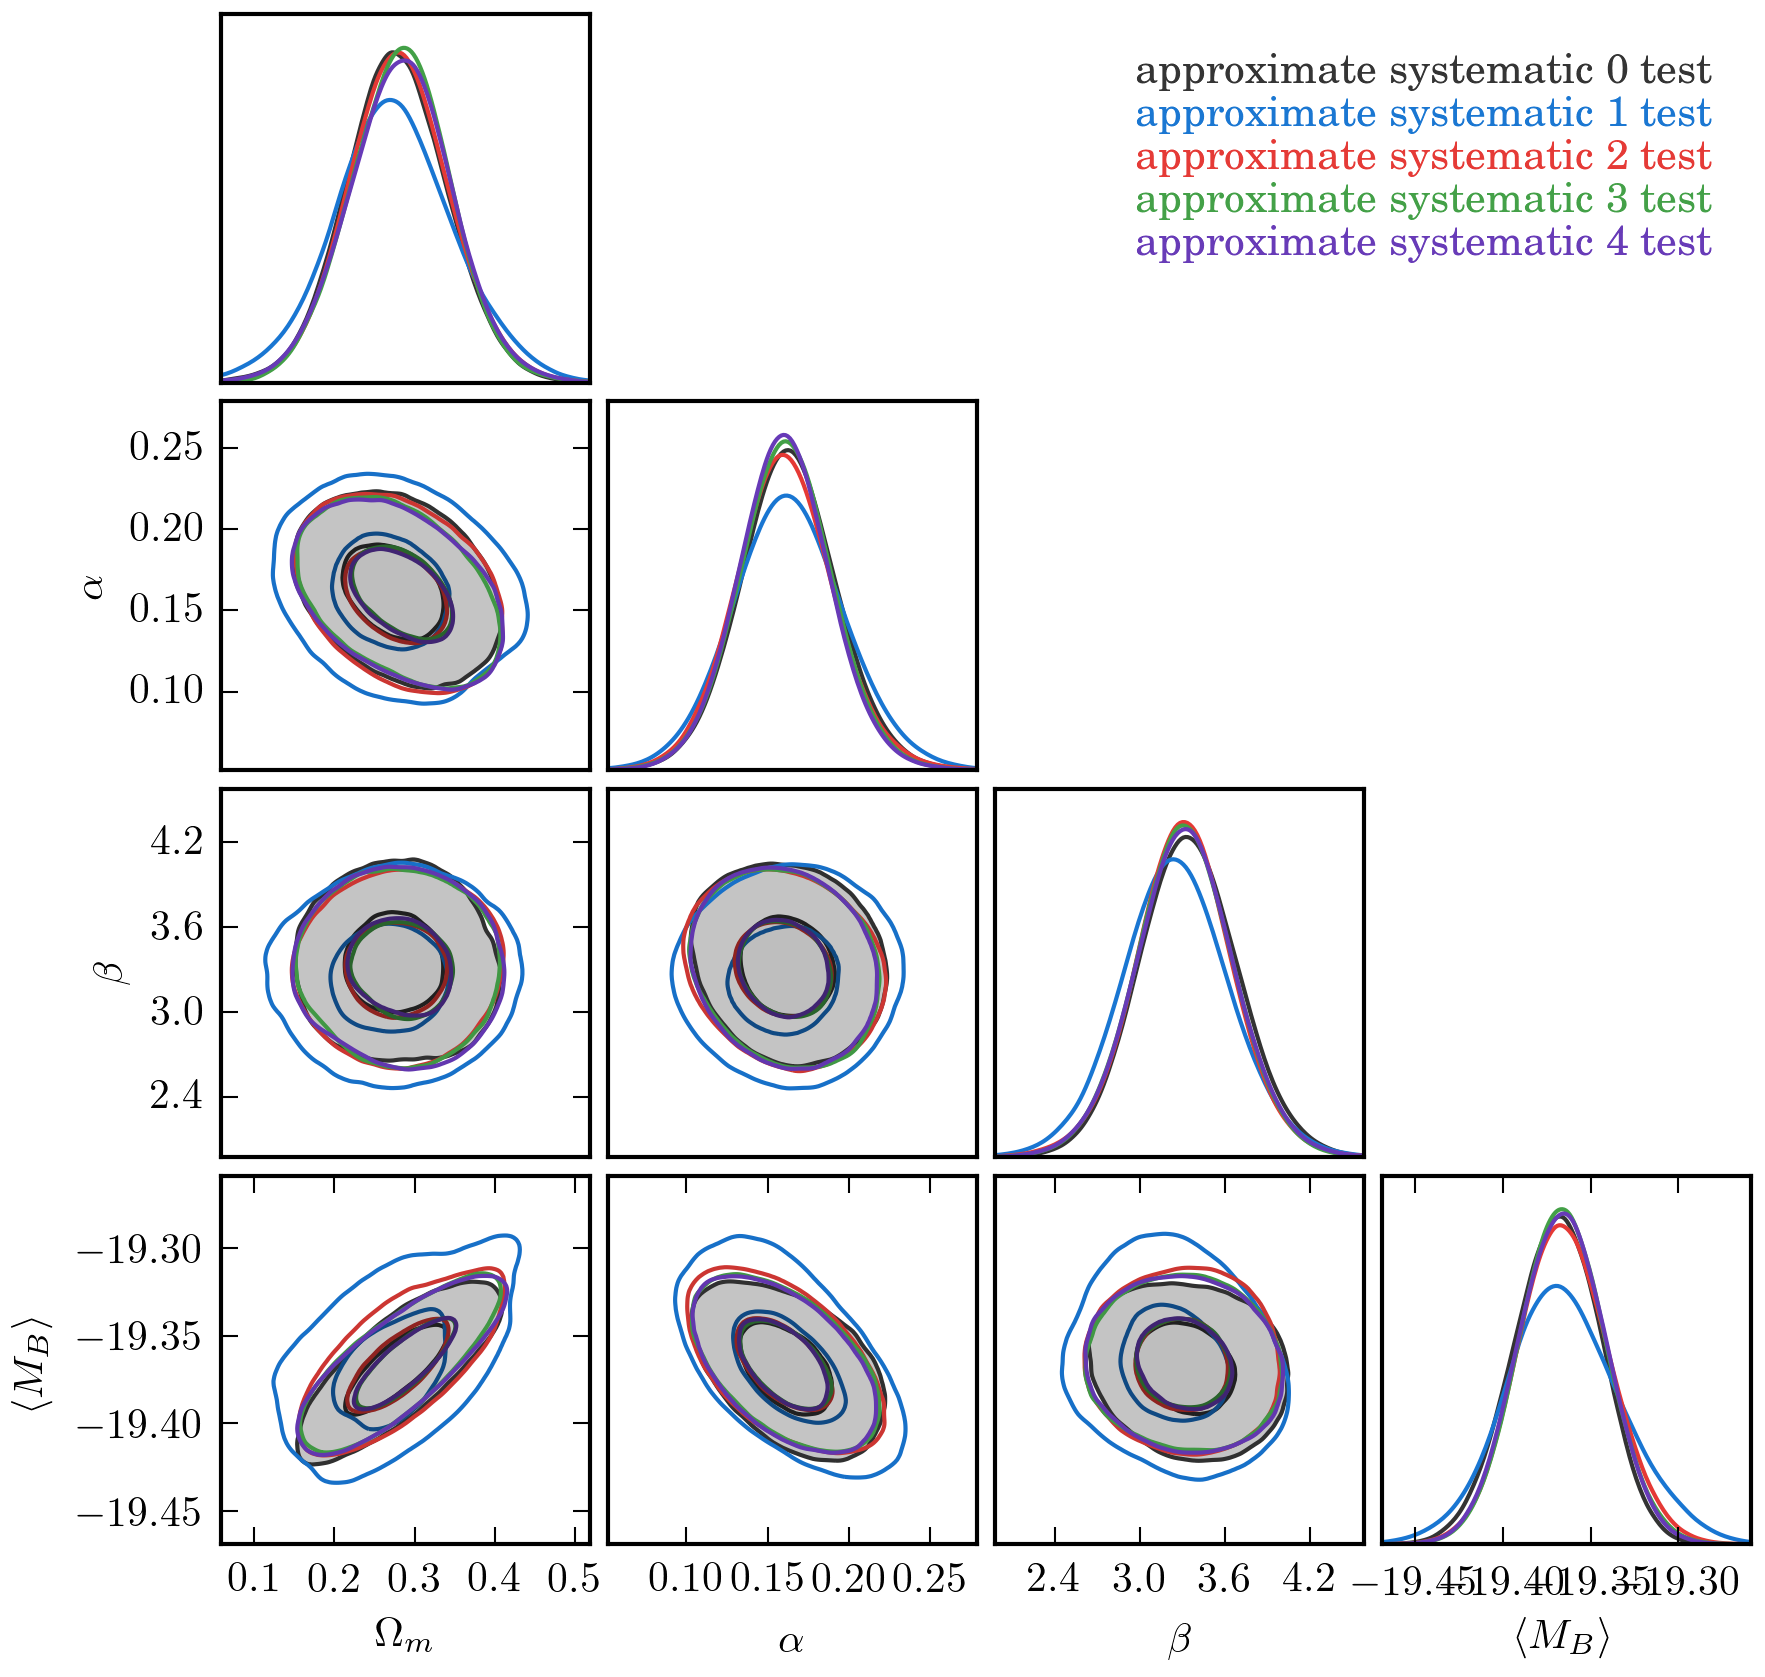
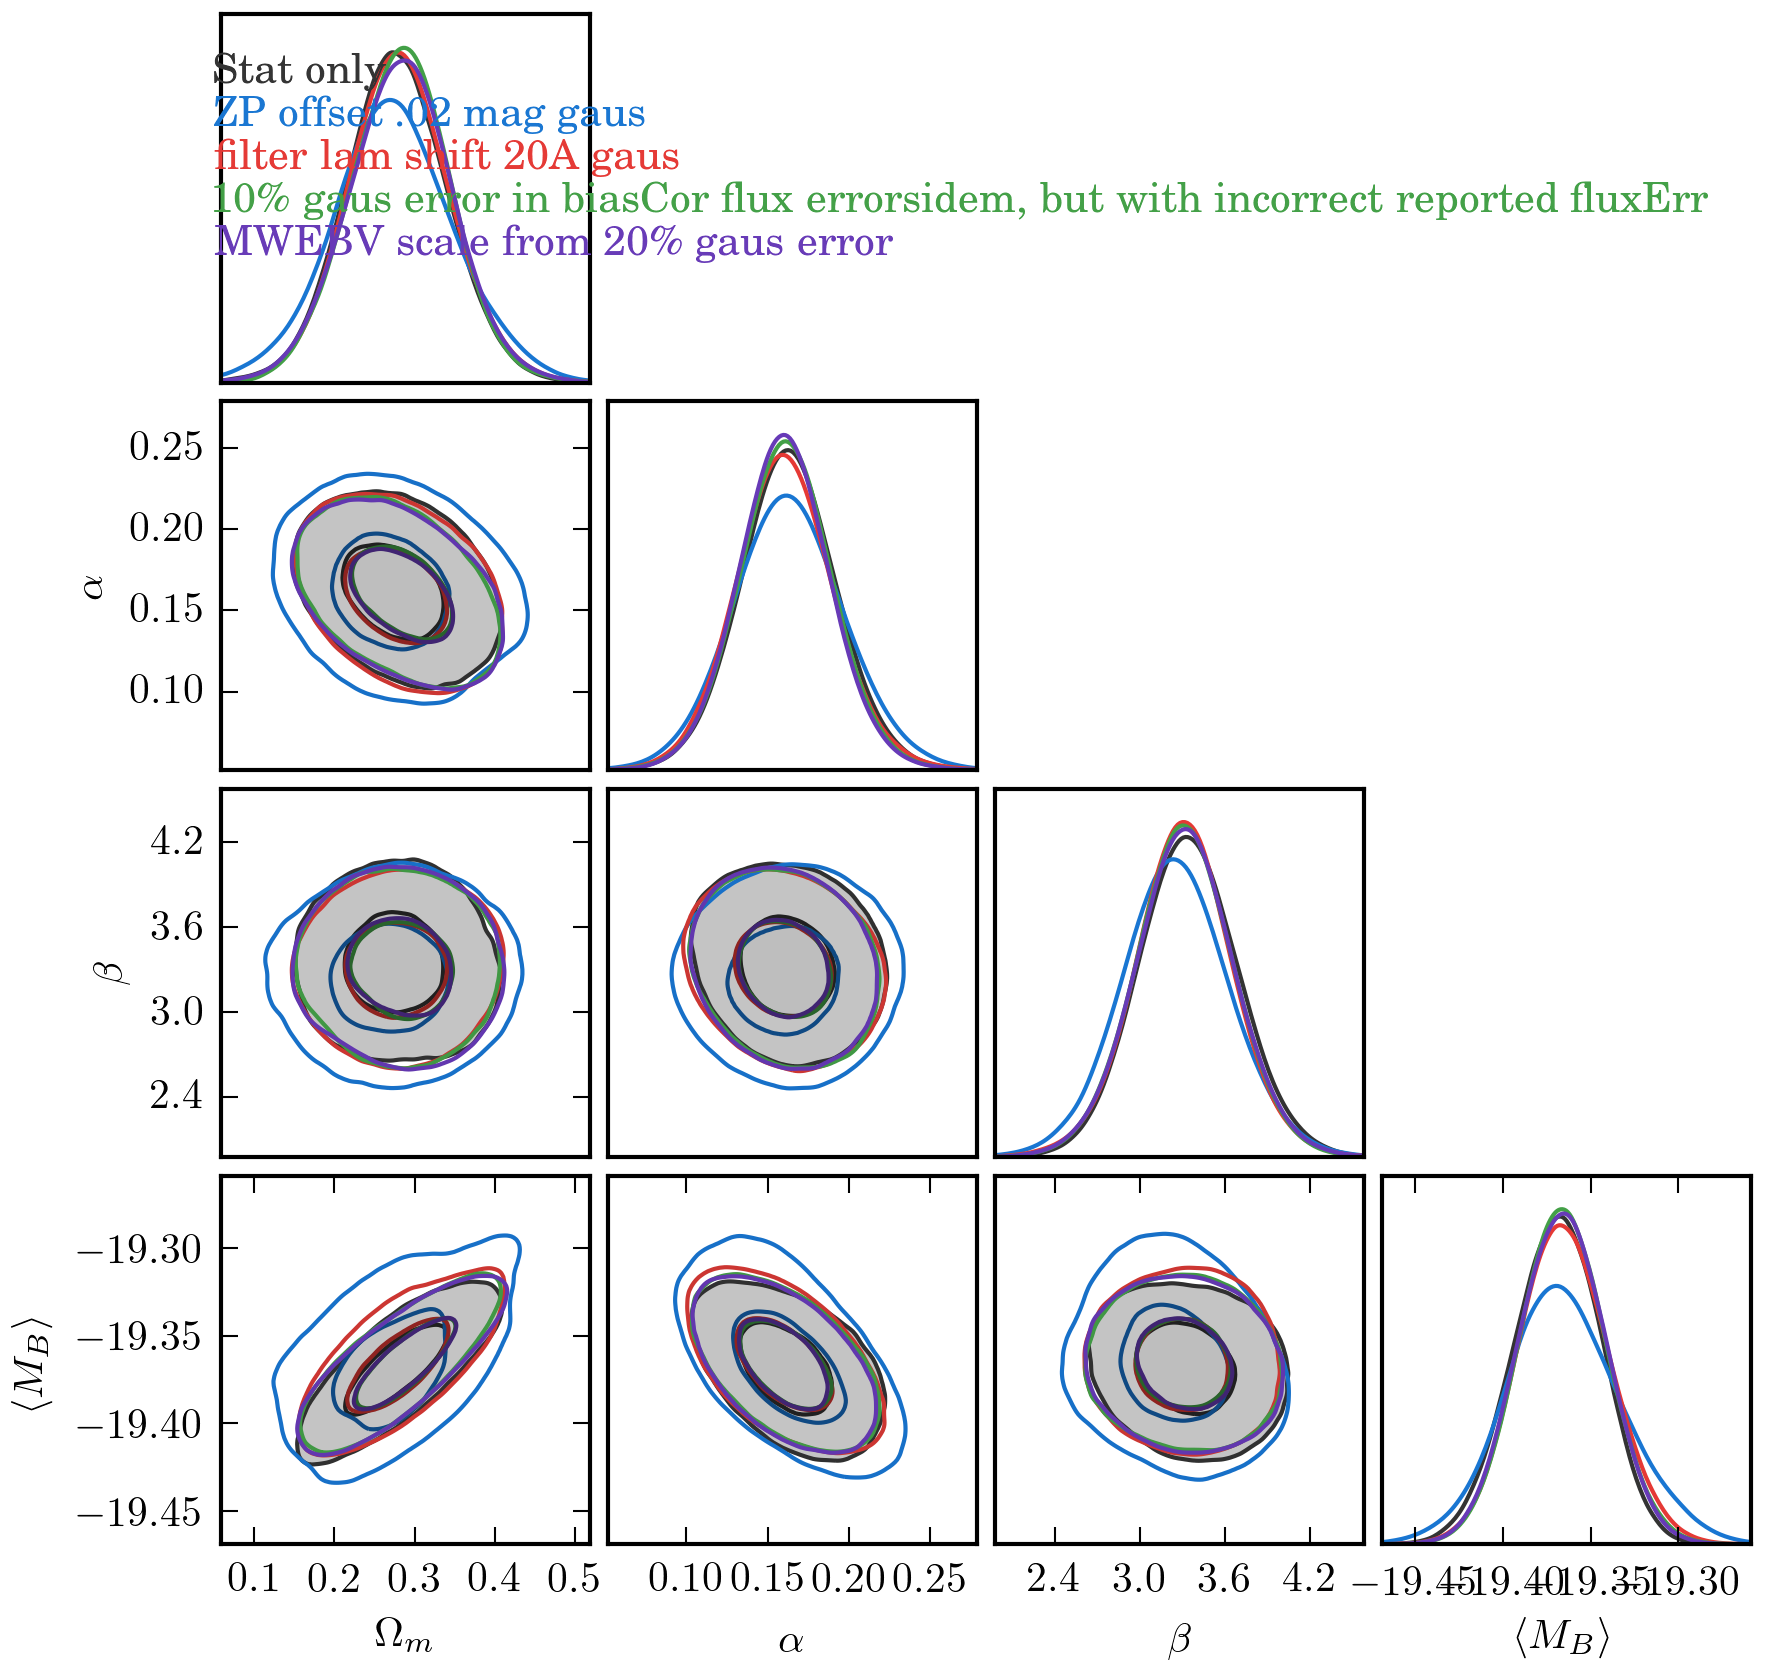
6th included

Changed region(s): [[0.5921, 0.031, 0.966, 0.155], [0.1246, 0.031, 0.5609, 0.155]]

diff --git a/dessn/configurations/approximate_systematic_6_test.py b/dessn/configurations/approximate_systematic_6_test.py
@@ -1,0 +1,53 @@
+import os
+import logging
+import socket
+from dessn.framework.fitter import Fitter
+from dessn.framework.models.approx_model import ApproximateModel
+from dessn.framework.simulations.snana import SNANASimulationGauss0p3, SNANASimulationLowzGauss0p3
+from dessn.framework.simulations.snana_sys import SNANASysSimulation
+
+if __name__ == "__main__":
+    logging.basicConfig(level=logging.DEBUG)
+    dir_name = os.path.dirname(os.path.abspath(__file__)) + "/output/" + os.path.basename(__file__)[:-3]
+    plot_dir = os.path.dirname(os.path.abspath(__file__)) + "/plots/"
+    plot_filename = plot_dir + os.path.basename(__file__)[:-3] + ".png"
+    file = os.path.abspath(__file__)
+    print(dir_name)
+
+    if not os.path.exists(dir_name):
+        os.makedirs(dir_name)
+
+    if not os.path.exists(plot_dir):
+        os.makedirs(plot_dir)
+
+    model = ApproximateModel(global_calibration=0)
+    # Turn off mass and skewness for easy test
+    simulation = [SNANASysSimulation(100, sys_index=6, sim="lowz", manual_selection=[13.70+0.5, 1.363, 3.8, 0.2]),
+                  SNANASysSimulation(250, sys_index=6, sim="des", manual_selection=[22.12, 0.544, None, 1.0])]
+
+    fitter = Fitter(dir_name)
+    fitter.set_models(model)
+    fitter.set_simulations(simulation)
+    fitter.set_num_cosmologies(200)
+    fitter.set_num_walkers(1)
+    fitter.set_max_steps(5000)
+
+    h = socket.gethostname()
+    if h != "smp-hk5pn72":  # The hostname of my laptop. Only will work for me, ha!
+        fitter.fit(file)
+    else:
+        from chainconsumer import ChainConsumer
+        m, s, chain, truth, weight, old_weight, posterior = fitter.load()
+        c = ChainConsumer()
+        c.add_chain(chain, weights=weight, posterior=posterior, name="Approx")
+        c.configure(spacing=1.0)
+
+        parameters = [r"$\Omega_m$", r"$\alpha$", r"$\beta$", r"$\langle M_B \rangle$",
+                      r"$\delta(0)$", r"$\delta(\infty)/\delta(0)$"]
+        print(c.analysis.get_latex_table(transpose=True))
+        # c.plotter.plot(filename=plot_filename, truth=truth, parameters=parameters)
+        print("Plotting distributions")
+        c = ChainConsumer()
+        c.add_chain(chain, weights=weight, posterior=posterior, name="Approx")
+        c.configure(label_font_size=10, tick_font_size=10, diagonal_tick_labels=False)
+        c.plotter.plot_distributions(filename=plot_filename.replace(".png", "_dist.png"), truth=truth, col_wrap=8)

diff --git a/dessn/configurations/approximate_systematic_load.py b/dessn/configurations/approximate_systematic_load.py
@@ -16,11 +16,14 @@ if __name__ == "__main__":
                   SNANASysSimulation(250, sys_index=0, sim="des", manual_selection=[22.12, 0.544, None, 1.0])]
 
     filenames = ["approximate_systematic_%d_test" % i for i in range(5)]
+    names = ["Stat only", "ZP offset .02 mag gaus", "filter lam shift 20A gaus",
+             "10\\% gaus error in biasCor flux errors", "idem, but with incorrect reported fluxErr",
+             "MWEBV scale from 20\\% gaus error", "MW RV shift from 0.2 gaus error"]
     dir_names = [os.path.dirname(os.path.abspath(__file__)) + "/output/" + f for f in filenames]
 
     c = ChainConsumer()
 
-    for dir_name, filename in zip(dir_names, filenames):
+    for dir_name, filename, name in zip(dir_names, filenames, names):
         print(dir_name)
         fitter = Fitter(dir_name)
         fitter.set_models(model)
@@ -30,10 +33,10 @@ if __name__ == "__main__":
         fitter.set_max_steps(5000)
 
         m, s, chain, truth, weight, old_weight, posterior = fitter.load()
-        c.add_chain(chain, weights=weight, posterior=posterior, name=filename.replace("_", " "))
+        c.add_chain(chain, weights=weight, posterior=posterior, name=name)
 
     ls = ["-"] + ["-"] * (len(dir_names) - 1)
-    colors = ['k', 'b', 'r', 'g', 'purple']
+    colors = ['k', 'b', 'r', 'g', 'purple', 'y']
     alphas = [0.3] + [0.0] * (len(dir_names) - 1)
     c.configure(label_font_size=10, tick_font_size=10, diagonal_tick_labels=False, linestyles=ls,
                 colors=colors, shade_alpha=alphas, shade=True)
